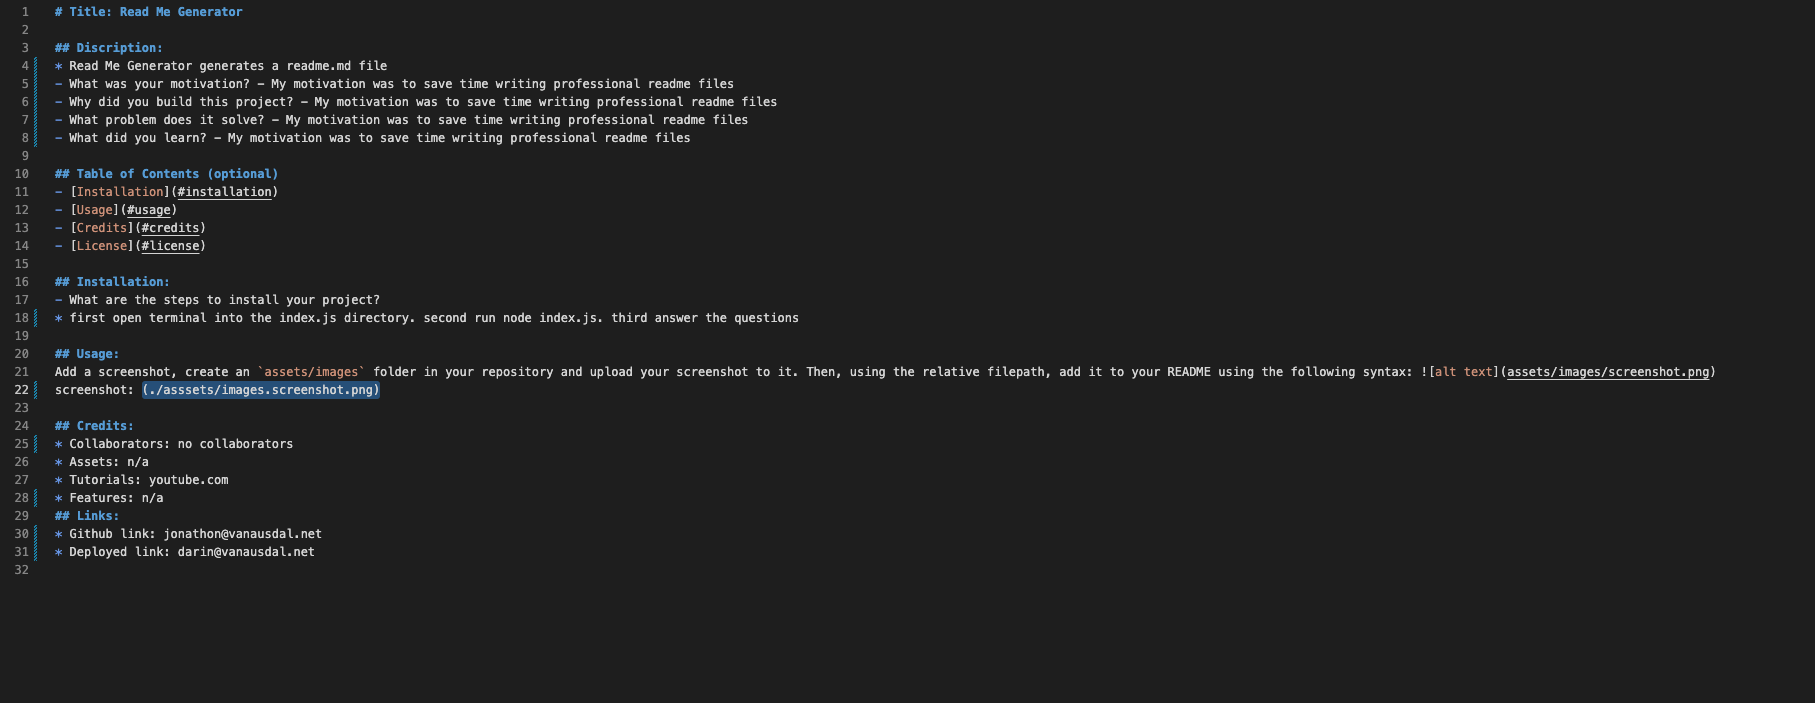
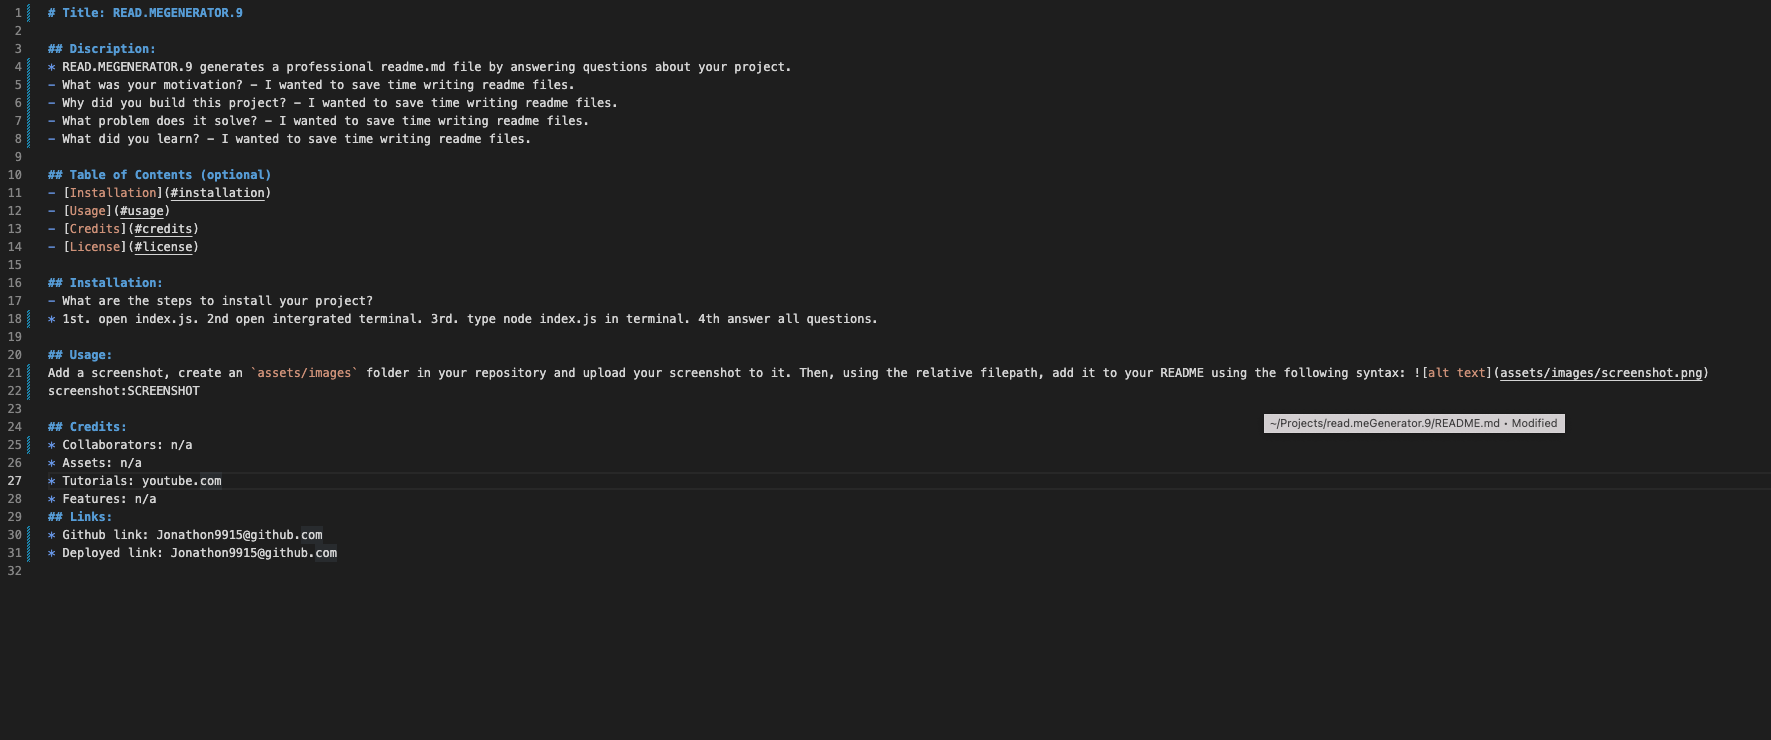
read me changes

Changed region(s): [[0.0, 0.0597, 0.9627, 0.8065], [0.0, 0.0, 0.1553, 0.0299]]

diff --git a/generateMarkdown.js b/generateMarkdown.js
@@ -30,7 +30,7 @@ function generateMarkdown(answer) {
     let installationD = "## Installation:\n";
     let installl = "- What are the steps to install your project?\n" + `* ${answer.install}\n\n`;
     let usageD = "## Usage:\n";
-    let screenshot = "Add a screenshot, create an `assets/images` folder in your repository and upload your screenshot to it. Then, using the relative filepath, add it to your README using the following syntax: ![alt text](assets/images/screenshot.png)\n";
+    let screenshot = "Add a screenshot, create an `assets/images` folder in your repository and upload your screenshot to it. Then, using the relative filepath, add it to your README using the following syntax: '![alt text](assets/images/screenshot.png)'\n";
     let usagescreenshot = "screenshot:" + `${answer.usage}\n\n`;
     let creditsD = "## Credits:\n";
     let collaborators = "* Collaborators: " + `${answer.collaborators}\n`;

diff --git a/README.md b/README.md
@@ -1,11 +1,11 @@
-# Title: Read Me Generator
+# Title: READ.MEGENERATOR.9
 
 ## Discription:
-* Read Me Generator generates a readme.md file
-- What was your motivation? - My motivation was to save time writing professional readme files
-- Why did you build this project? - My motivation was to save time writing professional readme files
-- What problem does it solve? - My motivation was to save time writing professional readme files
-- What did you learn? - My motivation was to save time writing professional readme files
+* READ.MEGENERATOR.9 generates a professional readme.md file by answering questions about your project.
+- What was your motivation? - I wanted to save time writing readme files.
+- Why did you build this project? - I wanted to save time writing readme files.
+- What problem does it solve? - I wanted to save time writing readme files.
+- What did you learn? - I wanted to save time writing readme files.
 
 ## Table of Contents (optional)
 - [Installation](#installation)
@@ -15,17 +15,17 @@
 
 ## Installation:
 - What are the steps to install your project?
-* first open terminal into the index.js directory. second run node index.js. third answer the questions
+* 1st. open index.js. 2nd open intergrated terminal. 3rd. type node index.js in terminal. 4th answer all questions.
 
 ## Usage:
-Add a screenshot, create an `assets/images` folder in your repository and upload your screenshot to it. Then, using the relative filepath, add it to your README using the following syntax: !["alt text"]("assets/images/screenshot.png")
+Add a screenshot, create an `assets/images` folder in your repository and upload your screenshot to it. Then, using the relative filepath, add it to your README using the following syntax: !'[alt text](assets/images/screenshot.png)'
 screenshot: ![alt text](assets/images/screenshot.png)
 
 ## Credits:
-* Collaborators: no collaborators
+* Collaborators: n/a
 * Assets: n/a
 * Tutorials: youtube.com
 * Features: n/a
 ## Links:
-* Github link: jonathon@vanausdal.net
-* Deployed link: darin@vanausdal.net
+* Github link: https://github.com/jonathonvanausdal9915/read.meGenerator.9
+* Deployed link: https://jonathonvanausdal9915.github.io/read.meGenerator.9/
